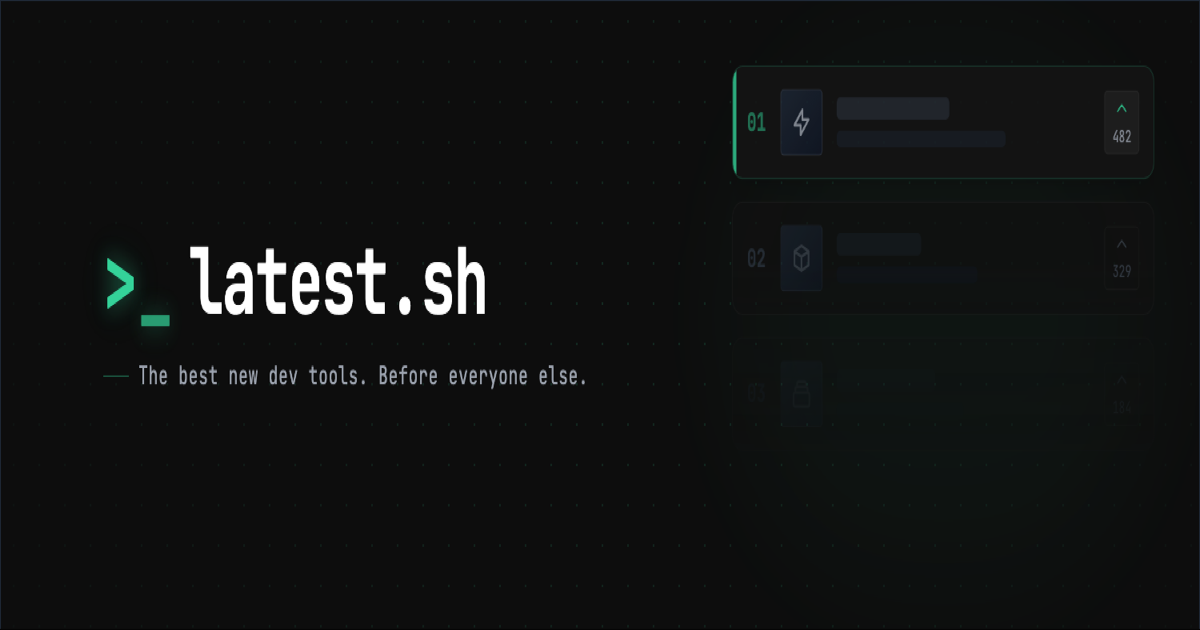
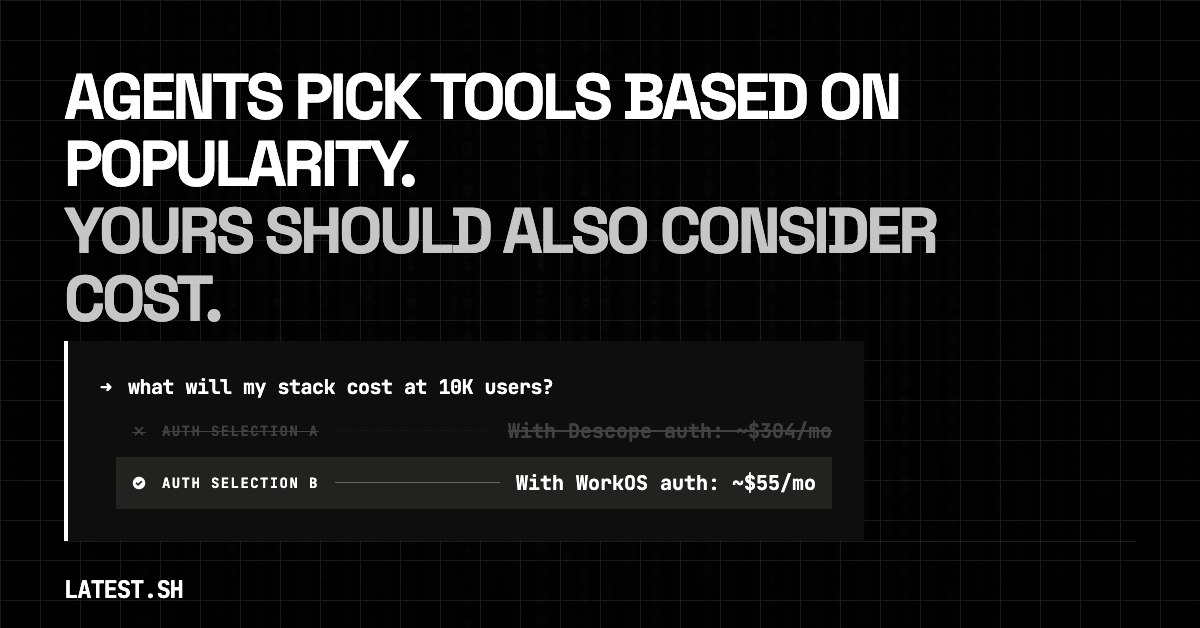
Add "Cost at Scale" column and new OG card
Growth cost feature:
- New growth-scenarios.ts with per-category usage scenarios (auth: 100K MAU,
  database: 50GB+500GB BW, email: 100K/mo, etc.)
- Computes cheapest paid tier cost at each scenario via existing estimateCost()
- Shows entry→scale price range ($0 → $1,025/mo) making free-tier cliffs visible
- Color-coded ratio badges (amber 2-5x, orange 5-10x, red >10x vs median)
- New "Growth Cost" sort option in category browse view
- Categories without scenarios gracefully show no column

Also: new OG card from Stitch design, restored og:image + twitter:card meta tags

diff --git a/web/lib/growth-scenarios.ts b/web/lib/growth-scenarios.ts
@@ -1,0 +1,187 @@
+import type { Registry } from "../../src/registry/registry.js";
+import type { Category } from "../../src/schema/pricing.js";
+
+export interface GrowthScenario {
+  label: string;
+  usage: Record<string, number>;
+  seats?: number;
+}
+
+// Standard "you've outgrown the free tier" scenarios per category.
+// Metric names include all known aliases across tools in that category
+// so estimateCost() matches at least one per tool. Unrecognized keys are silently ignored.
+export const GROWTH_SCENARIOS: Partial<Record<Category, GrowthScenario>> = {
+  auth: {
+    label: "100K MAU",
+    usage: {
+      MAUs: 100_000,
+      MAU: 100_000,
+      "Monthly Active Users (MRU)": 100_000,
+      "additional-mau": 100_000,
+      aDAU: 3_300,
+      tokens: 500_000,
+    },
+  },
+  database: {
+    label: "50GB + 500GB BW",
+    usage: {
+      storage: 50,
+      "Database Storage Overage": 50,
+      compute: 730,
+      bandwidth: 500,
+      "Bandwidth Overage": 500,
+      egress: 500,
+      "cluster-node": 3,
+      "rows-read": 10_000_000,
+      "rows-written": 1_000_000,
+      "request-units": 100_000_000,
+      commands: 10_000_000,
+    },
+  },
+  email: {
+    label: "100K emails/mo",
+    usage: {
+      emails: 100_000,
+      "outbound-emails": 100_000,
+      contacts: 10_000,
+      profiles: 10_000,
+    },
+  },
+  monitoring: {
+    label: "50GB ingest",
+    usage: {
+      "data-ingest": 50,
+      ingestion: 50,
+      "log-ingestion": 50,
+      "data-loading": 50,
+      hosts: 10,
+      sessions: 100_000,
+      errors: 1_000_000,
+      spans: 10_000_000,
+      monitors: 50,
+      logs: 50,
+      metrics: 50_000,
+    },
+  },
+  hosting: {
+    label: "5 services",
+    usage: {
+      "network-egress": 100,
+      services: 5,
+      "build-minutes": 3_000,
+      resources: 5,
+      "volume-storage": 20,
+      ram: 8,
+      cpu: 4,
+    },
+    seats: 5,
+  },
+  analytics: {
+    label: "1M events",
+    usage: {
+      events: 1_000_000,
+      "Product Analytics Events": 1_000_000,
+      sessions: 100_000,
+      MTUs: 10_000,
+    },
+  },
+  storage: {
+    label: "1TB stored",
+    usage: {
+      storage: 1_000,
+      "Storage": 1_000,
+      "Standard Storage": 1_000,
+      bandwidth: 5_000,
+      "Bandwidth": 5_000,
+    },
+  },
+  search: {
+    label: "1M searches/mo",
+    usage: {
+      "search-requests": 1_000_000,
+      records: 1_000_000,
+    },
+  },
+  "ci-cd": {
+    label: "10K minutes",
+    usage: {
+      "build-minutes": 10_000,
+      credits: 100_000,
+      "workflow-minutes": 10_000,
+    },
+    seats: 5,
+  },
+  payments: {
+    label: "10K transactions",
+    usage: {
+      transactions: 10_000,
+    },
+  },
+  "feature-flags": {
+    label: "1M requests",
+    usage: {
+      "flag-checks": 1_000_000,
+      events: 1_000_000,
+      MTUs: 10_000,
+    },
+    seats: 5,
+  },
+  queues: {
+    label: "1M executions",
+    usage: {
+      executions: 1_000_000,
+      tasks: 1_000_000,
+    },
+  },
+  notifications: {
+    label: "100K notifications",
+    usage: {
+      notifications: 100_000,
+      events: 100_000,
+    },
+  },
+};
+
+export interface GrowthCostResult {
+  cost: number | null;
+  tierName: string | null;
+  exceedsLimits: boolean;
+}
+
+export function computeGrowthCost(
+  registry: Registry,
+  toolId: string,
+  scenario: GrowthScenario
+): GrowthCostResult {
+  const estimates = registry.estimateCost({
+    toolId,
+    usage: scenario.usage,
+    seats: scenario.seats,
+  });
+
+  if (estimates.length === 0) {
+    return { cost: null, tierName: null, exceedsLimits: false };
+  }
+
+  const viable = estimates.filter((e) => !e.exceedsLimits);
+  const pool = viable.length > 0 ? viable : estimates;
+
+  // "Cost at Scale" should reflect paid-tier pricing, not free-tier limits.
+  // Free tier limit keys often don't match usage metric names, making the
+  // estimation engine unable to reject them. If the tool has paid tiers,
+  // show the cheapest paid tier cost. Only show $0 for genuinely free tools
+  // (OSS/self-hosted with no paid pricing at all).
+  const hasPaidTiers = estimates.some((e) => e.basePrice > 0);
+  const candidates = hasPaidTiers ? pool.filter((e) => e.basePrice > 0) : pool;
+  const finalPool = candidates.length > 0 ? candidates : pool;
+
+  const best = finalPool.reduce((min, e) =>
+    e.totalMonthly < min.totalMonthly ? e : min
+  );
+
+  return {
+    cost: Math.round(best.totalMonthly),
+    tierName: best.tierName,
+    exceedsLimits: best.exceedsLimits,
+  };
+}

diff --git a/web/routes/browse.ts b/web/routes/browse.ts
@@ -1,5 +1,7 @@
 import { Router, Request, Response } from "express";
 import { Registry } from "../../src/registry/registry.js";
+import { GROWTH_SCENARIOS, computeGrowthCost, type GrowthCostResult } from "../lib/growth-scenarios.js";
+import type { Category } from "../../src/schema/pricing.js";
 
 export function createBrowseRouter(registry: Registry): Router {
   const router = Router();
@@ -69,6 +71,34 @@ export function createBrowseRouter(registry: Registry): Router {
       });
     }
 
+    // Compute growth cost for each tool
+    const scenario = GROWTH_SCENARIOS[category as Category] ?? null;
+    const growthCosts: Record<string, GrowthCostResult> = {};
+    let cheapestGrowthCost = Infinity;
+
+    if (scenario) {
+      for (const tool of tools) {
+        const result = computeGrowthCost(registry, tool.id, scenario);
+        growthCosts[tool.id] = result;
+      }
+      // Use median non-zero cost as baseline for ratio badges
+      const nonZeroCosts = Object.values(growthCosts)
+        .map((r) => r.cost)
+        .filter((c): c is number => c !== null && c > 0)
+        .sort((a, b) => a - b);
+      if (nonZeroCosts.length > 0) {
+        cheapestGrowthCost = nonZeroCosts[Math.floor(nonZeroCosts.length / 2)];
+      }
+    }
+
+    if (sort === "growth-cost" && scenario) {
+      tools = [...tools].sort((a, b) => {
+        const aCost = growthCosts[a.id]?.cost ?? Infinity;
+        const bCost = growthCosts[b.id]?.cost ?? Infinity;
+        return aCost - bCost;
+      });
+    }
+
     const displayName = category.replace(/-/g, " ").replace(/\b\w/g, (c: string) => c.toUpperCase());
 
     res.render("category", {
@@ -79,6 +109,9 @@ export function createBrowseRouter(registry: Registry): Router {
       categorySlug: category,
       tools,
       currentSort: sort,
+      growthScenario: scenario,
+      growthCosts,
+      cheapestGrowthCost: isFinite(cheapestGrowthCost) ? cheapestGrowthCost : null,
     });
   });
 
